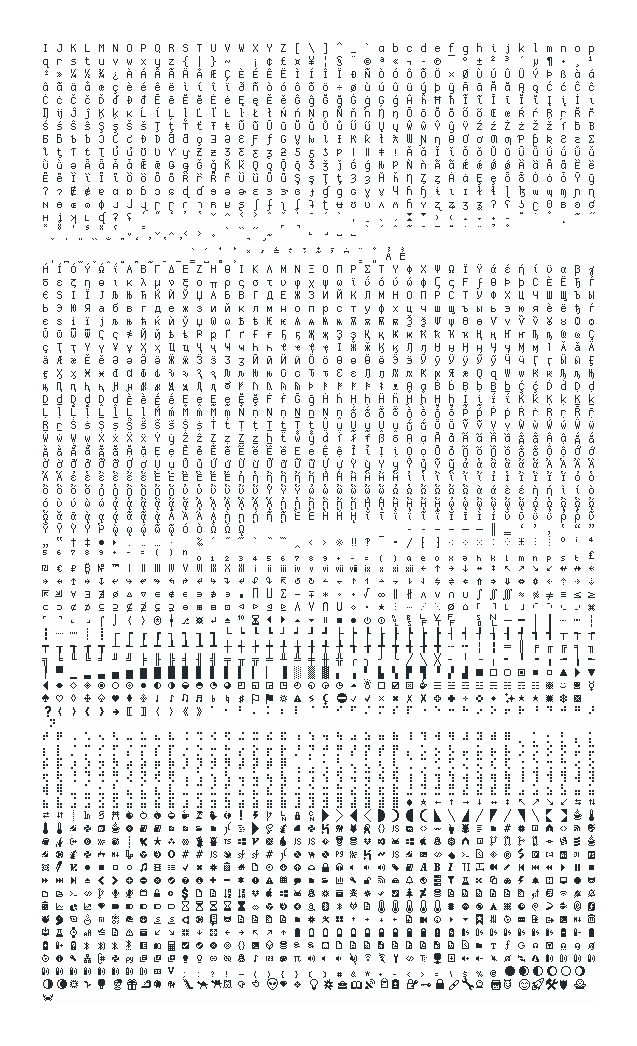
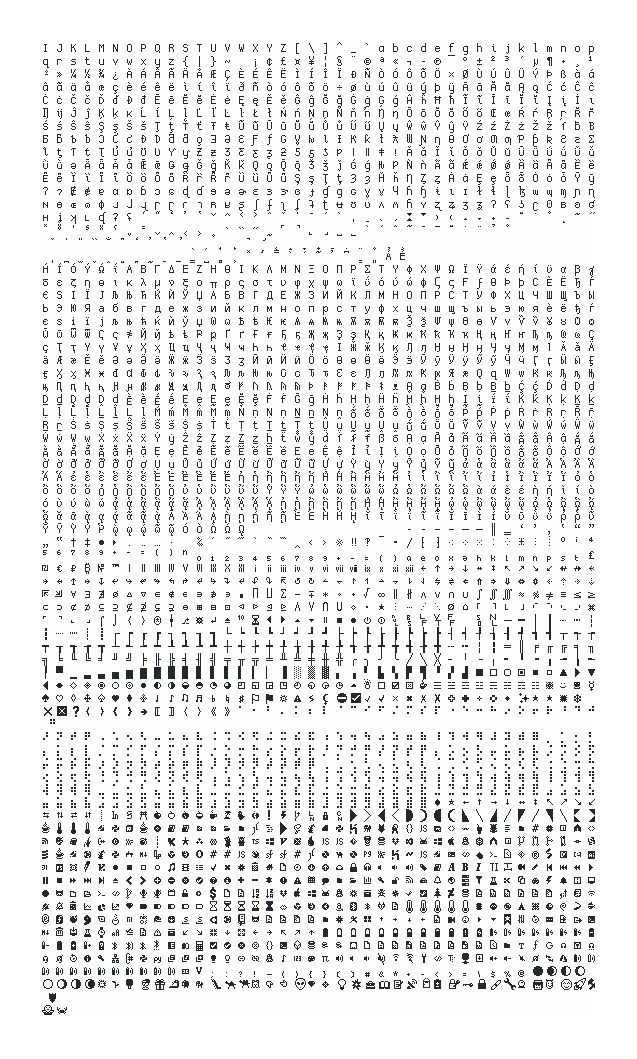
v.1.19.2 GitHub Copilot CLI glyphs

Changed region(s): [[0.0597, 0.2447, 0.9545, 0.979], [0.0597, 0.0306, 0.9545, 0.2141]]

diff --git a/CHANGELOG.md b/CHANGELOG.md
@@ -5,6 +5,20 @@ All notable changes to this project will be documented in this file.
 The format is based on [Keep a Changelog], and this project adheres to
 [Semantic Versioning].
 
+## [1.19.2]
+
+GitHub Copilot CLI update.
+
+### Added
+
+- ✅ (U+2705 WHITE HEAVY CHECK MARK)
+- ❌ (U+274C CROSS MARK)
+- 📝 (U+1F4DD MEMO)
+
+### Changed
+
+- ❎ (U+274E NEGATIVE SQUARED CROSS MARK)
+
 ## [1.19.1]
 
 ### Added
